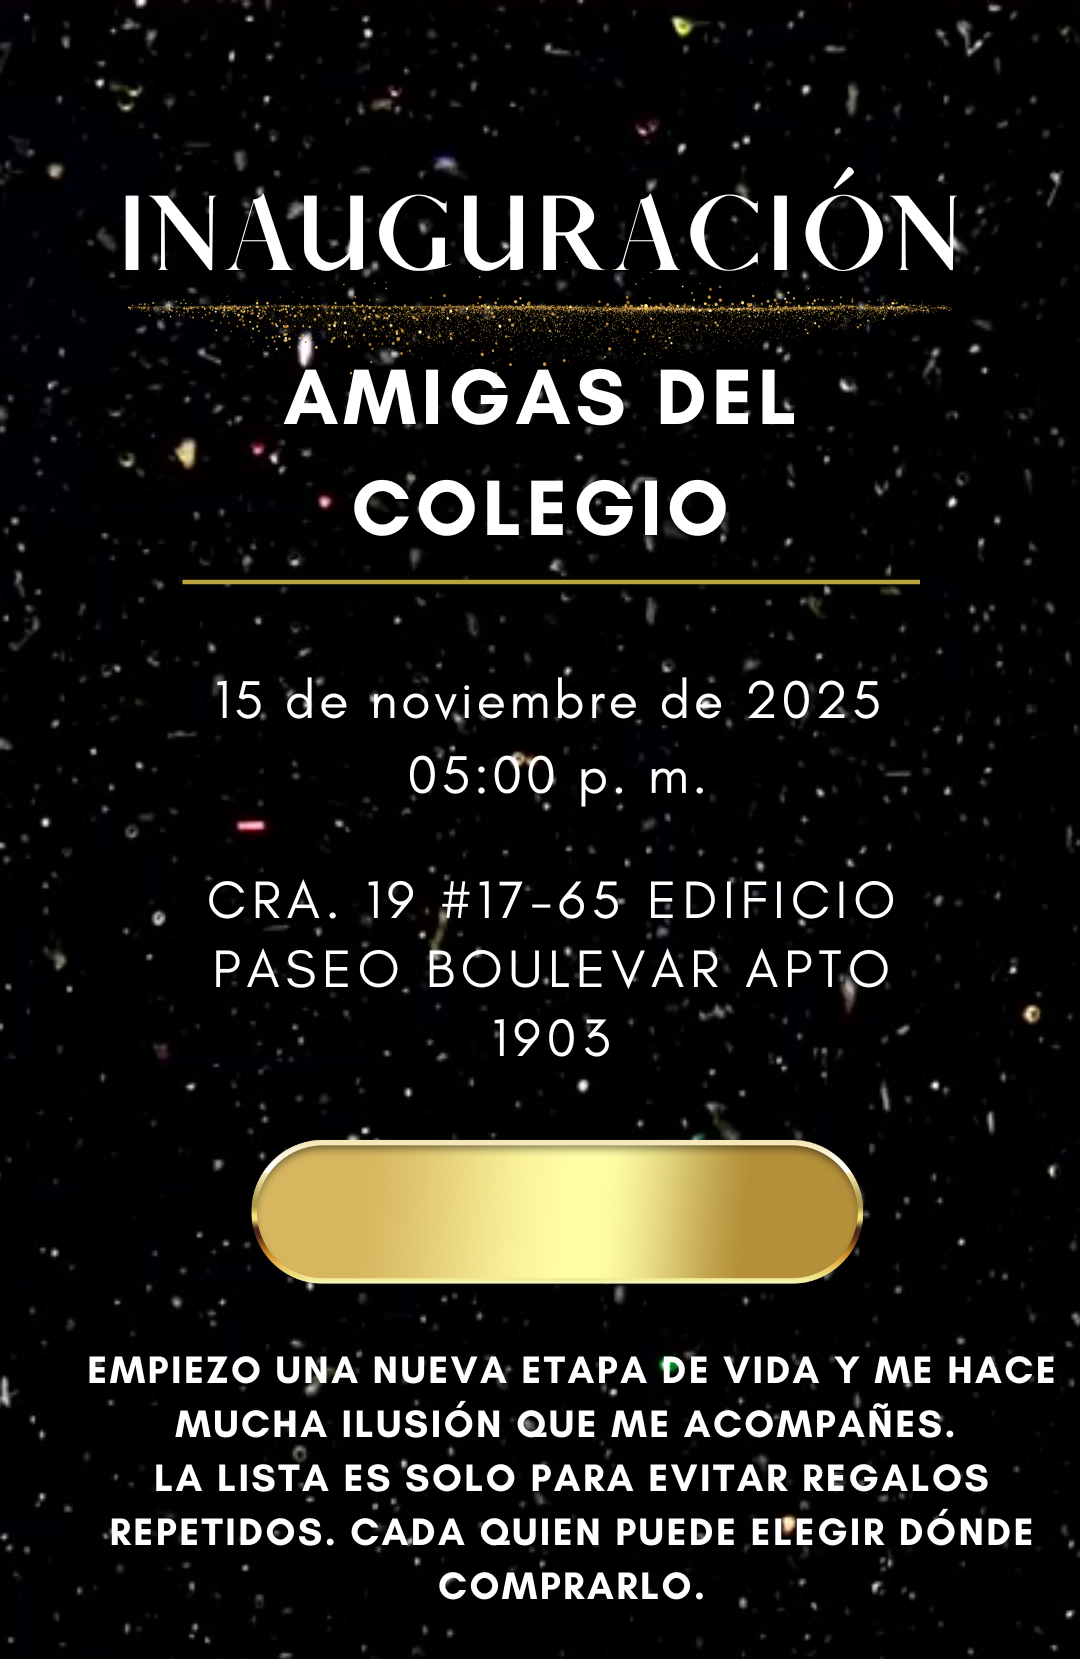
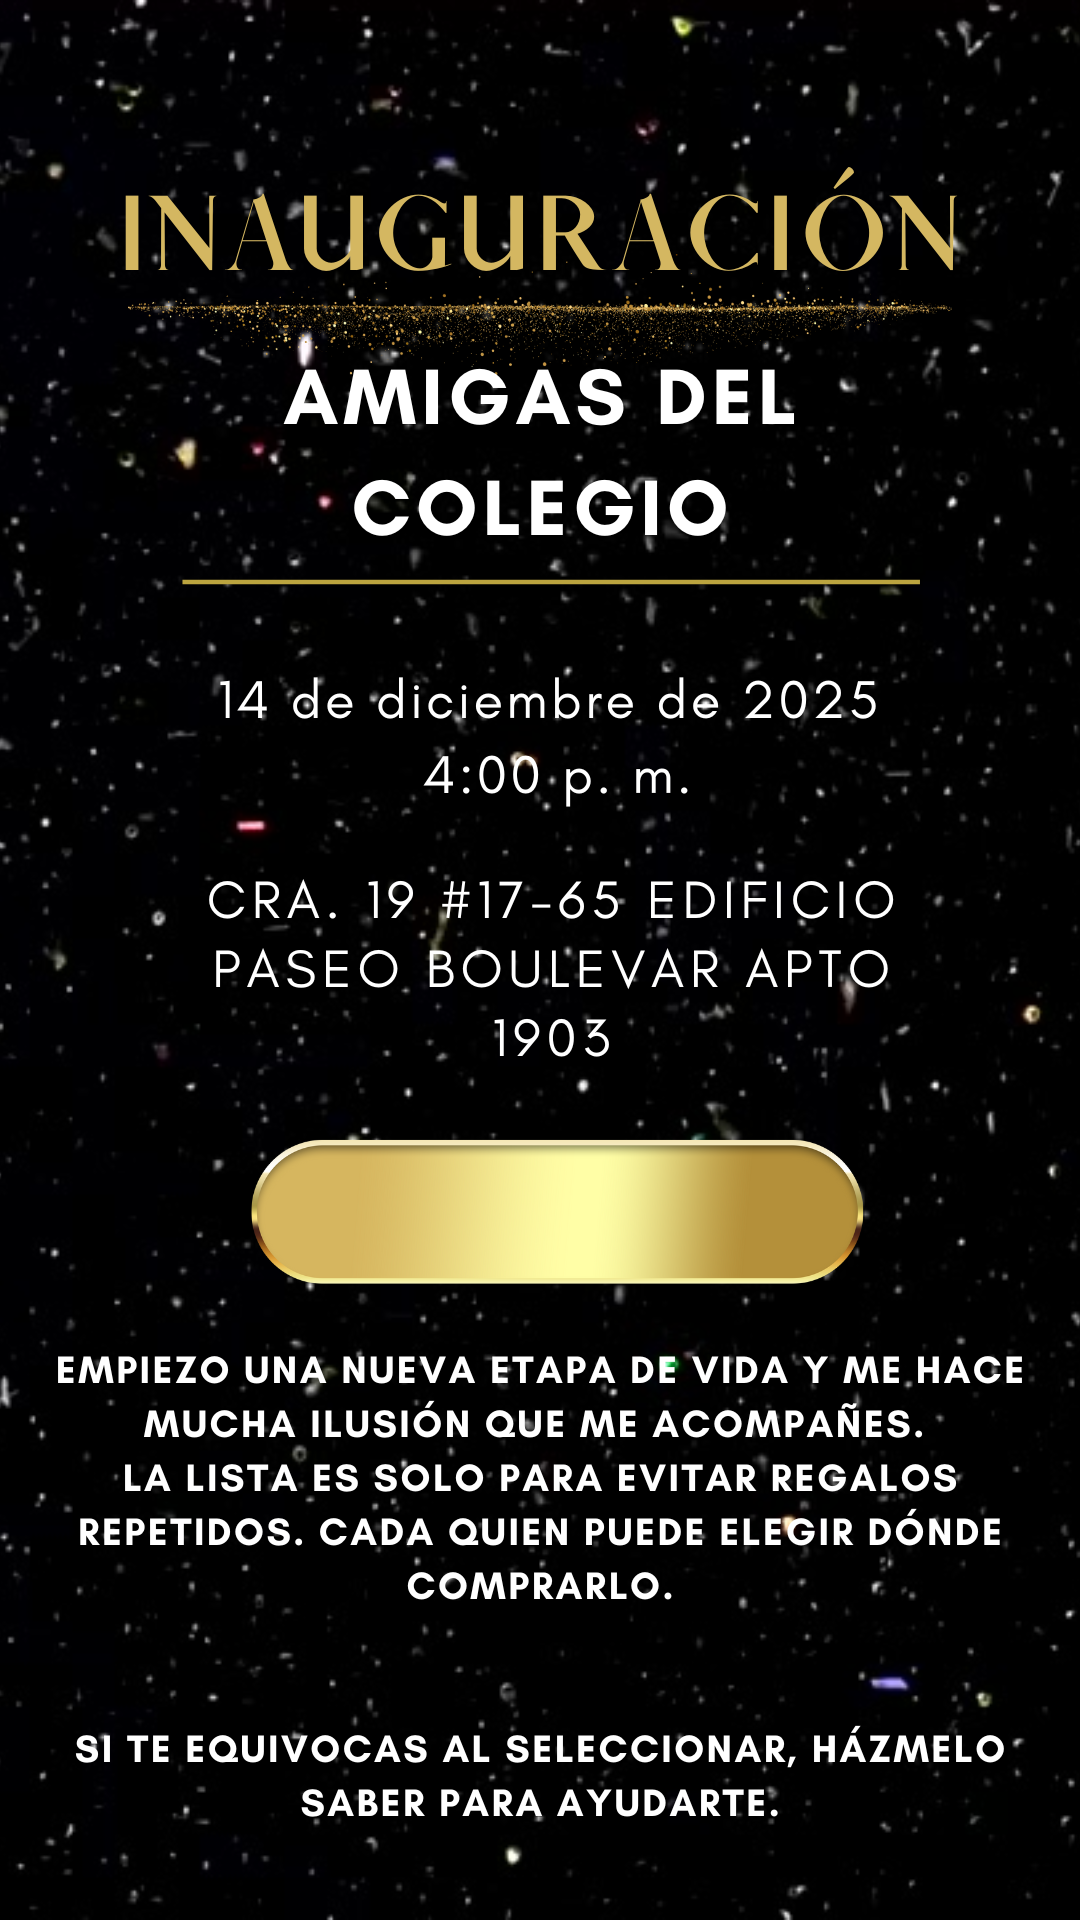
cmabios fechas

diff --git a/app/grupo/colegas/page.tsx b/app/grupo/colegas/page.tsx
@@ -108,11 +108,7 @@ export default function ColegasPage() {
             Lista de regalos
           </h2>
 
-          <p className="text-base text-slate-100 text-center mb-5 leading-relaxed font-medium">
-            La lista es solo para evitar regalos repetidos. <br />
-            Cada quien puede comprar donde prefiera.
-          </p>
-
+          
           {loading ? (
             <p className="text-white text-center">Cargando...</p>
           ) : (

diff --git a/app/grupo/familia/page.tsx b/app/grupo/familia/page.tsx
@@ -108,11 +108,7 @@ export default function FamiliaPage() {
             Lista de regalos
           </h2>
 
-          <p className="text-base text-slate-100 text-center mb-5 leading-relaxed font-medium">
-            La lista es solo para evitar regalos repetidos. <br />
-            Cada quien puede comprar donde prefiera.
-          </p>
-
+      
           {loading ? (
             <p className="text-white text-center">Cargando...</p>
           ) : (

diff --git a/app/grupo/amigas/page.tsx b/app/grupo/amigas/page.tsx
@@ -108,11 +108,7 @@ export default function AmigasPage() {
             Lista de regalos
           </h2>
 
-          <p className="text-base text-slate-100 text-center mb-5 leading-relaxed font-medium">
-  La lista es solo para evitar regalos repetidos. <br />
-  Cada quien puede comprar donde prefiera.
-</p>
-
+  
 
           {loading ? (
             <p className="text-white text-center">Cargando...</p>
